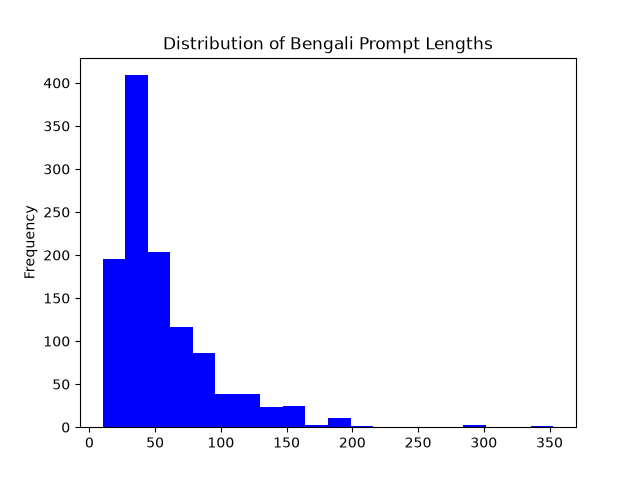
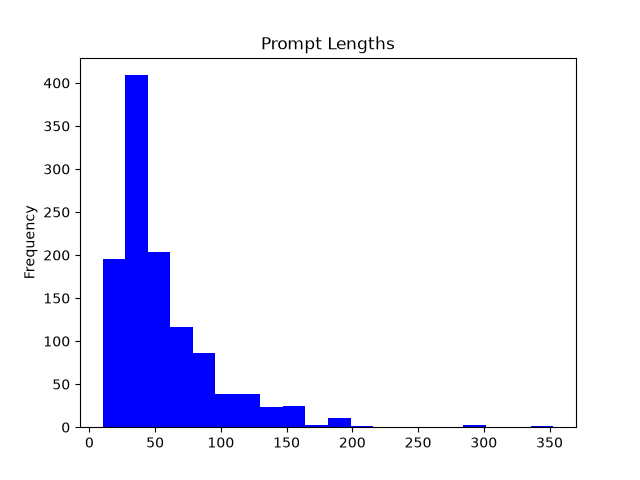
Sprint 8: Bengali tokenization and scrubbing

Changed region(s): [[0.25, 0.0625, 0.7812, 0.125]]

diff --git a/explore.py b/explore.py
@@ -1,22 +1,61 @@
 import pandas as pd
 import matplotlib.pyplot as plt
+import string
 
-# 1. Ingestion: Load your cleanly filtered matrix back into RAM
+# Ingestion
 df = pd.read_csv("processed_test_set.csv")
 
-# 2. Visualization: Command pandas to draw a histogram with 20 bins (bars)
-df['prompt_length'].plot(kind='hist', bins=20, title='Distribution of Bengali Prompt Lengths', color='blue')
+# Proof of life
+print(df.head())
 
-# 3. Export: Save the drawing from temporary RAM to a permanent image file
+# 1. Command pandas to calculate the geometry in RAM
+df['prompt_length'].plot(kind='hist', bins = 20, title='Prompt Lengths', color = 'blue')
+
+# 2. Command matplotlib to export the final rendering
 plt.savefig('length_chart.png')
-print("Visualization complete. Chart saved as length_chart.png!")
+print("Chart successfully rendered and saved!")
 
-# 4. Data Cleaning: Drop any row containing 'svg' image code
+# 3. Data Cleaning: The Boolean Mask
 clean_df = df[~df['prompt_bn'].str.contains('svg', na=False)]
 
-print("Rows before cleaning:", len(df))
-print("Rows after cleaning:", len(clean_df))
-
-# 5. Final Export
+# 4. Final Export
 clean_df.to_csv("final_clean_dataset.csv", index=False)
-print("Final cleaned dataset saved as final_clean_dataset.csv!")
+print(f"Cleaned dataset ready! Total rows: {len(clean_df)}")
+
+# 5. Isolate a single Bengali string from the clean dataset
+sample_sentence = clean_df['prompt_bn'].iloc[1]
+print("--- Raw String ---")
+print(sample_sentence)
+
+# 6. Basic Tokenization (Chopping by spaces)
+tokens = sample_sentence.split()
+print("\n--- Tokens ---")
+print(tokens)
+print("Total Tokens: ", len(tokens))
+
+# 7. Advanced Tokenization (Targeted Punctuation Scrubbing)
+# Combine all standard punctuation (!"#$%&'()*+,-./:;<=>?@[\]^_`{|}~) with the Bengali dari
+target_punctuation = string.punctuation + '।'
+
+# Command the processor to translate all target punctuation into absolute nothingness
+translator = str.maketrans('', '', target_punctuation)
+sanitized_sentence = sample_sentence.translate(translator)
+print("\n--- Sanitized String ---")
+print(sanitized_sentence)
+
+final_tokens = sanitized_sentence.split()
+print("\n--- Final Tokens ---")
+print(final_tokens)
+
+# 8. Scale to the Full Matrix
+# Create a safe independent copy of the matrix to prevent pandas memory warnings
+clean_df = clean_df.copy() 
+
+# Fire the translator logic across the entire prompt column instantly
+clean_df['sanitized_prompt'] = clean_df['prompt_bn'].apply(lambda x: str(x).translate(translator))
+
+# Chop every sanitized sentence into a list of tokens
+clean_df['tokens'] = clean_df['sanitized_prompt'].str.split()
+
+print("\n--- Full Matrix Tokenization ---")
+print(clean_df[['prompt_bn', 'tokens']].head())
